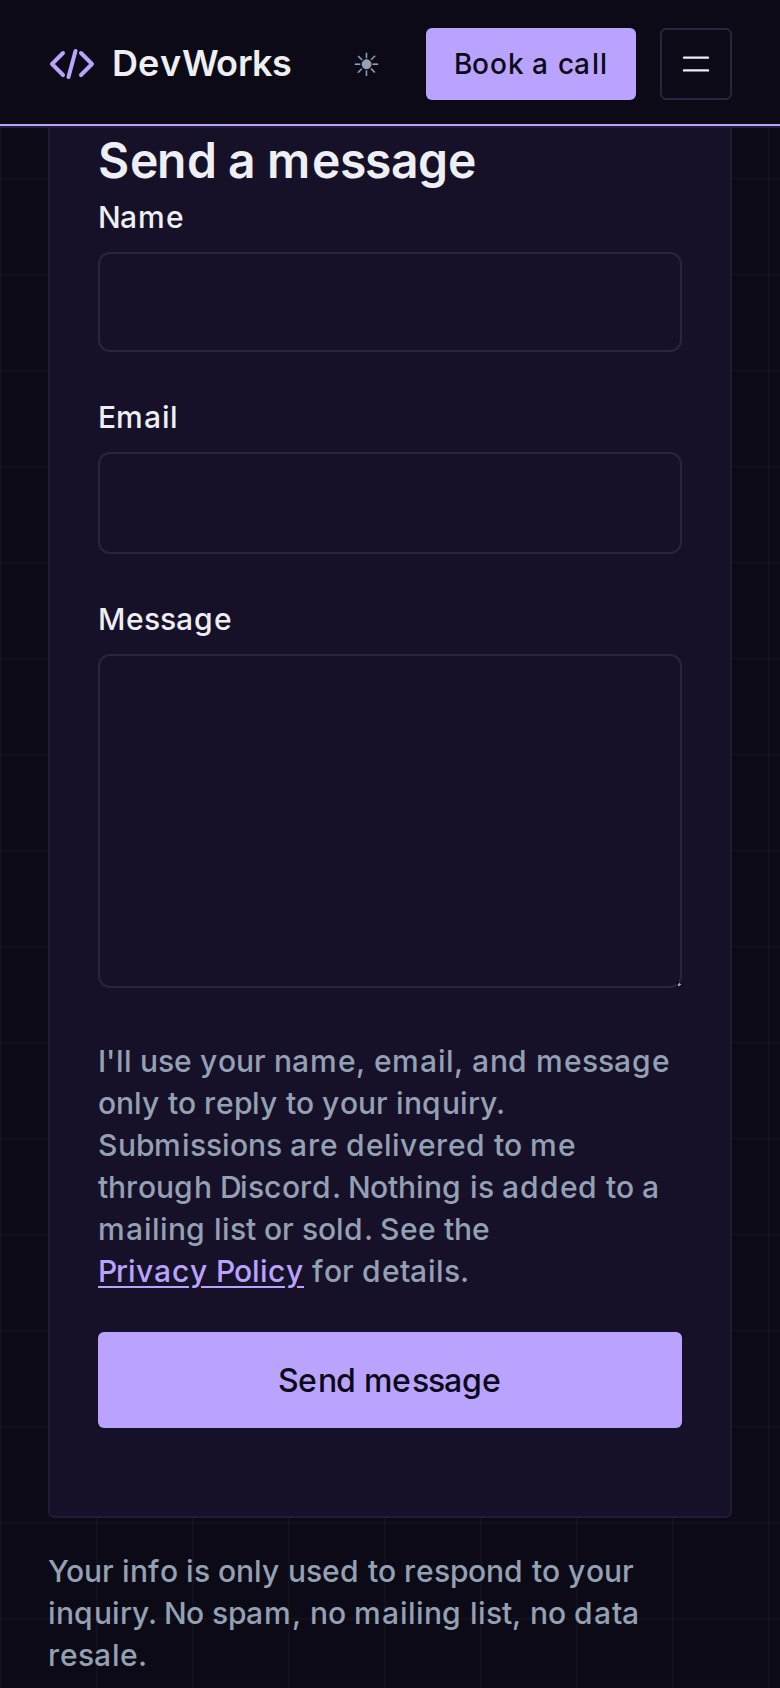
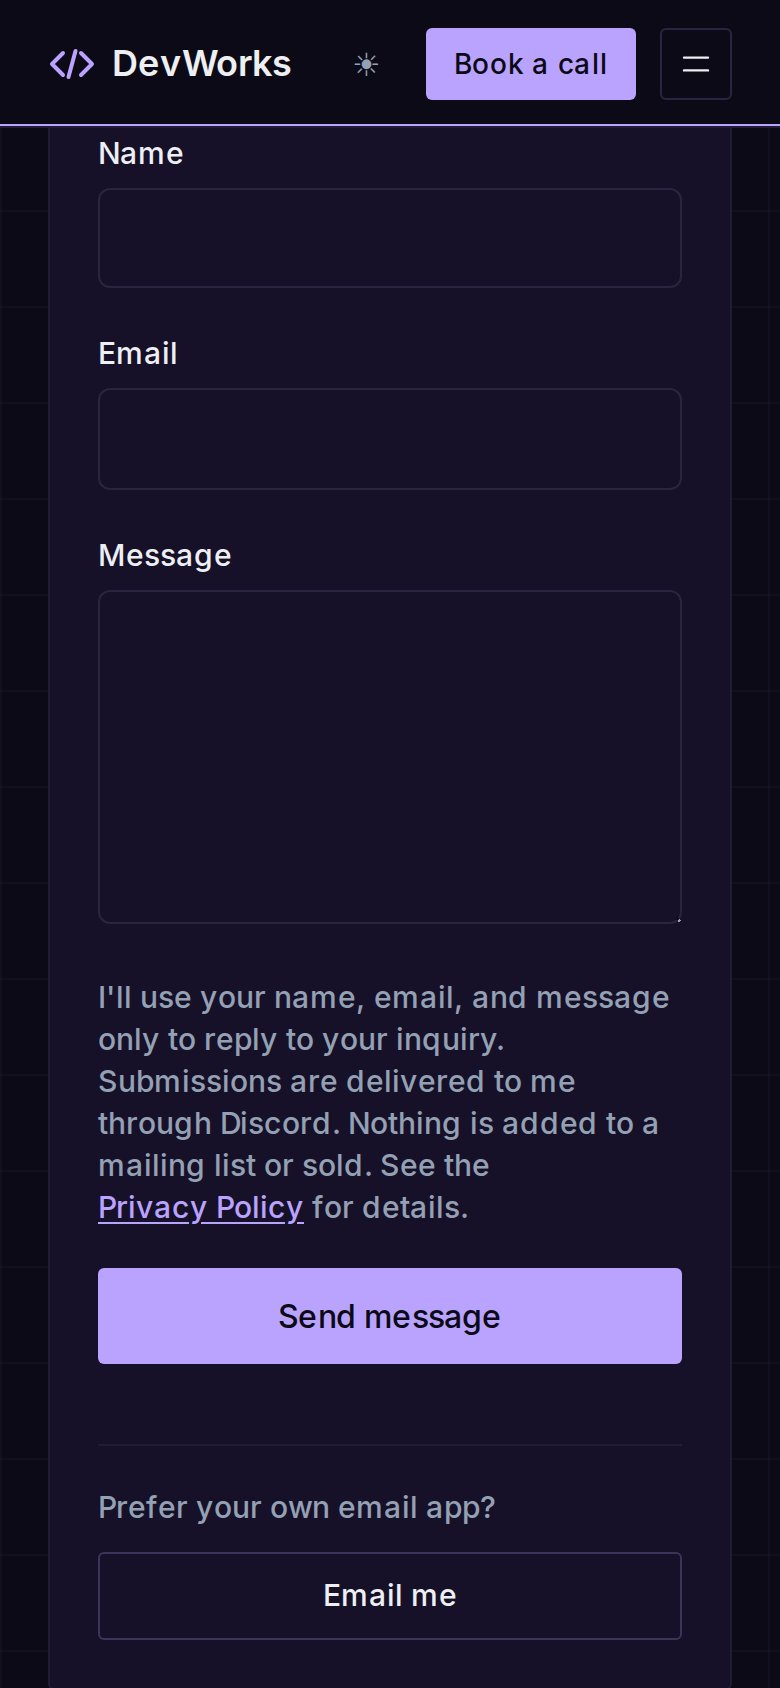
feat: add "Email me" buttons that open the visitor's email app
Add an "Email me" mailto: button addressed to daryll@dgdevworks.com,
with a "Project inquiry" subject. It appears next to every
existing contact option:
- inside the contact form, under the submit button
- in the closing CTA band on Home, the service pages, and Pricing, after
  "Book a call" and "Send a message"
- in the mobile nav panel, after "Book a call" and "Send a message"

The link is defined once as emailMeHref in src/data/business.ts.
Button now renders mailto: and tel: hrefs as plain anchors, with no
next/link routing and no new tab. The mobile-contact and mobile-menu
case study screenshots are re-captured, and the focus-trap tests now
treat "Email me" as the last focusable element.

diff --git a/tests/unit/components/MobileNavPanel.test.tsx b/tests/unit/components/MobileNavPanel.test.tsx
@@ -8,6 +8,7 @@ vi.mock("next/navigation", () => ({
 }));
 
 import { MobileNavPanel } from "@/components/layout/MobileNavPanel";
+import { emailMeHref } from "@/data/business";
 
 function Harness({ open, onClose }: { open: boolean; onClose: () => void }) {
   const ref = createRef<HTMLButtonElement>();
@@ -72,6 +73,7 @@ describe("MobileNavPanel (E1-F3-S2, docs/design-system.md §5/§7)", () => {
     expect(nav.querySelectorAll("a")).toHaveLength(6);
     expect(screen.getByRole("link", { name: "Book a call" })).toBeInTheDocument();
     expect(screen.getByRole("link", { name: "Send a message" })).toHaveAttribute("href", "/contact");
+    expect(screen.getByRole("link", { name: "Email me" })).toHaveAttribute("href", emailMeHref);
   });
 
   it("close (X) button has an accessible name", () => {
@@ -89,10 +91,10 @@ describe("MobileNavPanel (E1-F3-S2, docs/design-system.md §5/§7)", () => {
   it("traps Tab focus inside the panel: Tab from the last focusable element wraps to the first", async () => {
     render(<Harness open onClose={() => {}} />);
     const closeButton = screen.getByRole("button", { name: "Close navigation menu" });
-    const sendMessageLink = screen.getByRole("link", { name: "Send a message" });
+    const lastLink = screen.getByRole("link", { name: "Email me" });
 
-    sendMessageLink.focus();
-    expect(sendMessageLink).toHaveFocus();
+    lastLink.focus();
+    expect(lastLink).toHaveFocus();
 
     await userEvent.tab();
     expect(closeButton).toHaveFocus();
@@ -105,6 +107,6 @@ describe("MobileNavPanel (E1-F3-S2, docs/design-system.md §5/§7)", () => {
     expect(closeButton).toHaveFocus();
 
     await userEvent.tab({ shift: true });
-    expect(screen.getByRole("link", { name: "Send a message" })).toHaveFocus();
+    expect(screen.getByRole("link", { name: "Email me" })).toHaveFocus();
   });
 });

diff --git a/src/components/ui/ClosingRecord.tsx b/src/components/ui/ClosingRecord.tsx
@@ -2,7 +2,7 @@ import clsx from "clsx";
 import { Button } from "./Button";
 import { Section } from "./Section";
 import { BracketMark } from "@/components/layout/BracketMark";
-import { business } from "@/data/business";
+import { business, emailMeHref } from "@/data/business";
 import { getBookingUrl } from "@/lib/env";
 
 export interface ClosingRecordProps {
@@ -19,7 +19,7 @@ export interface ClosingRecordProps {
  */
 export function ClosingRecord({
   heading = "Ready to scope your project?",
-  subheading = "Book a call and walk away with a clear plan and a firm quote. Prefer email? Send a message instead.",
+  subheading = "Book a call and walk away with a clear plan and a firm quote. Prefer email? Send a message here, or email me directly.",
   className,
 }: ClosingRecordProps) {
   const bookingUrl = getBookingUrl();
@@ -37,6 +37,9 @@ export function ClosingRecord({
             </Button>
             <Button href="/contact" variant="ghost" size="lg">
               Send a message
+            </Button>
+            <Button href={emailMeHref} variant="ghost" size="lg">
+              Email me
             </Button>
           </div>
         </div>

diff --git a/src/components/ContactForm.tsx b/src/components/ContactForm.tsx
@@ -6,6 +6,7 @@ import { Button } from "@/components/ui/Button";
 import { PrivacyPolicyLink } from "@/components/PrivacyPolicyModal";
 import { submitContactForm, type ContactFormFailureReason } from "@/lib/discord";
 import { privacyNotice } from "@/data/privacy";
+import { emailMeHref } from "@/data/business";
 
 type Status = "idle" | "loading" | "success" | "error";
 
@@ -229,6 +230,14 @@ export function ContactForm() {
       <div id={`${formId}-status`} role="status" aria-live="polite">
         {status === "success" && <p className="text-ui text-success">{statusMessage}</p>}
         {status === "error" && <p className="text-ui text-error">{statusMessage}</p>}
+      </div>
+
+      {/* Alternative to the form: opens the visitor's own email app, addressed to me. */}
+      <div className="flex flex-col gap-3 border-t border-rule pt-5 sm:flex-row sm:items-center sm:justify-between">
+        <p className="text-ui text-text-secondary">Prefer your own email app?</p>
+        <Button href={emailMeHref} variant="outline" size="md">
+          Email me
+        </Button>
       </div>
     </form>
   );

diff --git a/tests/unit/components/ClosingRecord.test.tsx b/tests/unit/components/ClosingRecord.test.tsx
@@ -1,7 +1,7 @@
 import { describe, it, expect } from "vitest";
 import { render, screen } from "@testing-library/react";
 import { ClosingRecord } from "@/components/ui/ClosingRecord";
-import { business } from "@/data/business";
+import { business, emailMeHref } from "@/data/business";
 
 describe("ClosingRecord (BROADSHEET, replaces CTABand)", () => {
   it("renders the default heading/subheading and a tiered dual CTA", () => {
@@ -11,6 +11,9 @@ describe("ClosingRecord (BROADSHEET, replaces CTABand)", () => {
     expect(bookLink).toHaveAttribute("target", "_blank");
     expect(bookLink).toHaveAttribute("rel", "noopener noreferrer");
     expect(screen.getByRole("link", { name: "Send a message" })).toHaveAttribute("href", "/contact");
+    const emailLink = screen.getByRole("link", { name: "Email me" });
+    expect(emailLink).toHaveAttribute("href", emailMeHref);
+    expect(emailLink).not.toHaveAttribute("target");
   });
 
   it("accepts custom heading/subheading, matching CTABand's prior API", () => {

diff --git a/src/components/ui/Button.tsx b/src/components/ui/Button.tsx
@@ -59,6 +59,7 @@ function omitOwnProps<T extends object>(props: T): Omit<T, (typeof OWN_PROP_KEYS
  * Usage:
  *   <Button variant="solid" size="lg" href="/contact">Send a message</Button>
  *   <Button variant="outline" href={bookingUrl} external>Book a call</Button>
+ *   <Button variant="outline" href="mailto:me@example.com">Email me</Button>
  *   <Button variant="ghost" onClick={...}>Cancel</Button>
  */
 export function Button(props: ButtonProps) {
@@ -68,6 +69,16 @@ export function Button(props: ButtonProps) {
   if ("href" in props && props.href) {
     const { href, external } = props;
     const anchorRest = omitOwnProps(props);
+
+    // mailto:/tel: links hand off to another app: a plain <a>, no client-side
+    // routing, and no new tab.
+    if (/^(mailto|tel):/i.test(href)) {
+      return (
+        <a href={href} className={classes} {...anchorRest}>
+          {children}
+        </a>
+      );
+    }
 
     if (external) {
       return (

diff --git a/tests/unit/components/ContactForm.test.tsx b/tests/unit/components/ContactForm.test.tsx
@@ -13,6 +13,7 @@ vi.mock("@/lib/discord", async () => {
 });
 
 import { ContactForm } from "@/components/ContactForm";
+import { business, emailMeHref } from "@/data/business";
 
 describe("ContactForm (E5-F1-S1 / E5-F1-S2)", () => {
   beforeEach(() => {
@@ -163,5 +164,15 @@ describe("ContactForm (E5-F1-S1 / E5-F1-S2)", () => {
     expect(warnSpy).toHaveBeenCalledWith(expect.stringContaining("honeypot"));
 
     warnSpy.mockRestore();
+  });
+});
+
+describe("ContactForm: Email me alternative", () => {
+  it("offers an Email me link that opens the visitor's email app, addressed to the business email", () => {
+    render(<ContactForm />);
+    const link = screen.getByRole("link", { name: "Email me" });
+    expect(link).toHaveAttribute("href", emailMeHref);
+    expect(emailMeHref.startsWith(`mailto:${business.contactEmail}`)).toBe(true);
+    expect(link).not.toHaveAttribute("target");
   });
 });

diff --git a/src/components/layout/MobileNavPanel.tsx b/src/components/layout/MobileNavPanel.tsx
@@ -7,6 +7,7 @@ import { motion, AnimatePresence, useReducedMotion } from "framer-motion";
 import { navLinks } from "@/lib/navLinks";
 import { Button } from "@/components/ui/Button";
 import { getBookingUrl } from "@/lib/env";
+import { emailMeHref } from "@/data/business";
 
 export interface MobileNavPanelProps {
   open: boolean;
@@ -154,6 +155,9 @@ export function MobileNavPanel({ open, onClose, triggerRef }: MobileNavPanelProp
             </Button>
             <Button href="/contact" variant="outline" size="lg" onClick={onClose}>
               Send a message
+            </Button>
+            <Button href={emailMeHref} variant="ghost" size="lg" onClick={onClose}>
+              Email me
             </Button>
           </div>
         </motion.div>

diff --git a/tests/unit/components/Button.test.tsx b/tests/unit/components/Button.test.tsx
@@ -68,3 +68,17 @@ describe("Button primitive (E1-F3-S4)", () => {
     expect(link).toHaveClass("rounded-[3px]");
   });
 });
+
+describe("Button: mailto/tel links", () => {
+  it("renders a plain anchor with no new tab for mailto: links", () => {
+    render(
+      <Button href="mailto:someone@example.com" variant="outline">
+        Email me
+      </Button>
+    );
+    const link = screen.getByRole("link", { name: "Email me" });
+    expect(link).toHaveAttribute("href", "mailto:someone@example.com");
+    expect(link).not.toHaveAttribute("target");
+    expect(link).not.toHaveAttribute("rel");
+  });
+});

diff --git a/src/data/caseStudies.ts b/src/data/caseStudies.ts
@@ -153,7 +153,7 @@ export const caseStudies: CaseStudy[] = [
         },
         {
           src: "/work/dgdevworks-marketing/mobile-contact.jpg",
-          alt: "The contact form on a phone, with name, email, and message fields.",
+          alt: "The full contact form on a phone: name, email, and message fields, the privacy notice, and the Send message and Email me buttons.",
           width: 780,
           height: 1688,
           caption: "Contact",

diff --git a/src/data/business.ts b/src/data/business.ts
@@ -27,4 +27,10 @@ export const business: BusinessInfo = {
     "One software engineer, start to finish. No subcontracting, no hand-offs.",
 };
 
+/**
+ * "Email me" link: opens the visitor's own email app, addressed to
+ * business.contactEmail with a starter subject line.
+ */
+export const emailMeHref = `mailto:${business.contactEmail}?subject=${encodeURIComponent("Project inquiry")}`;
+
 export default business;
